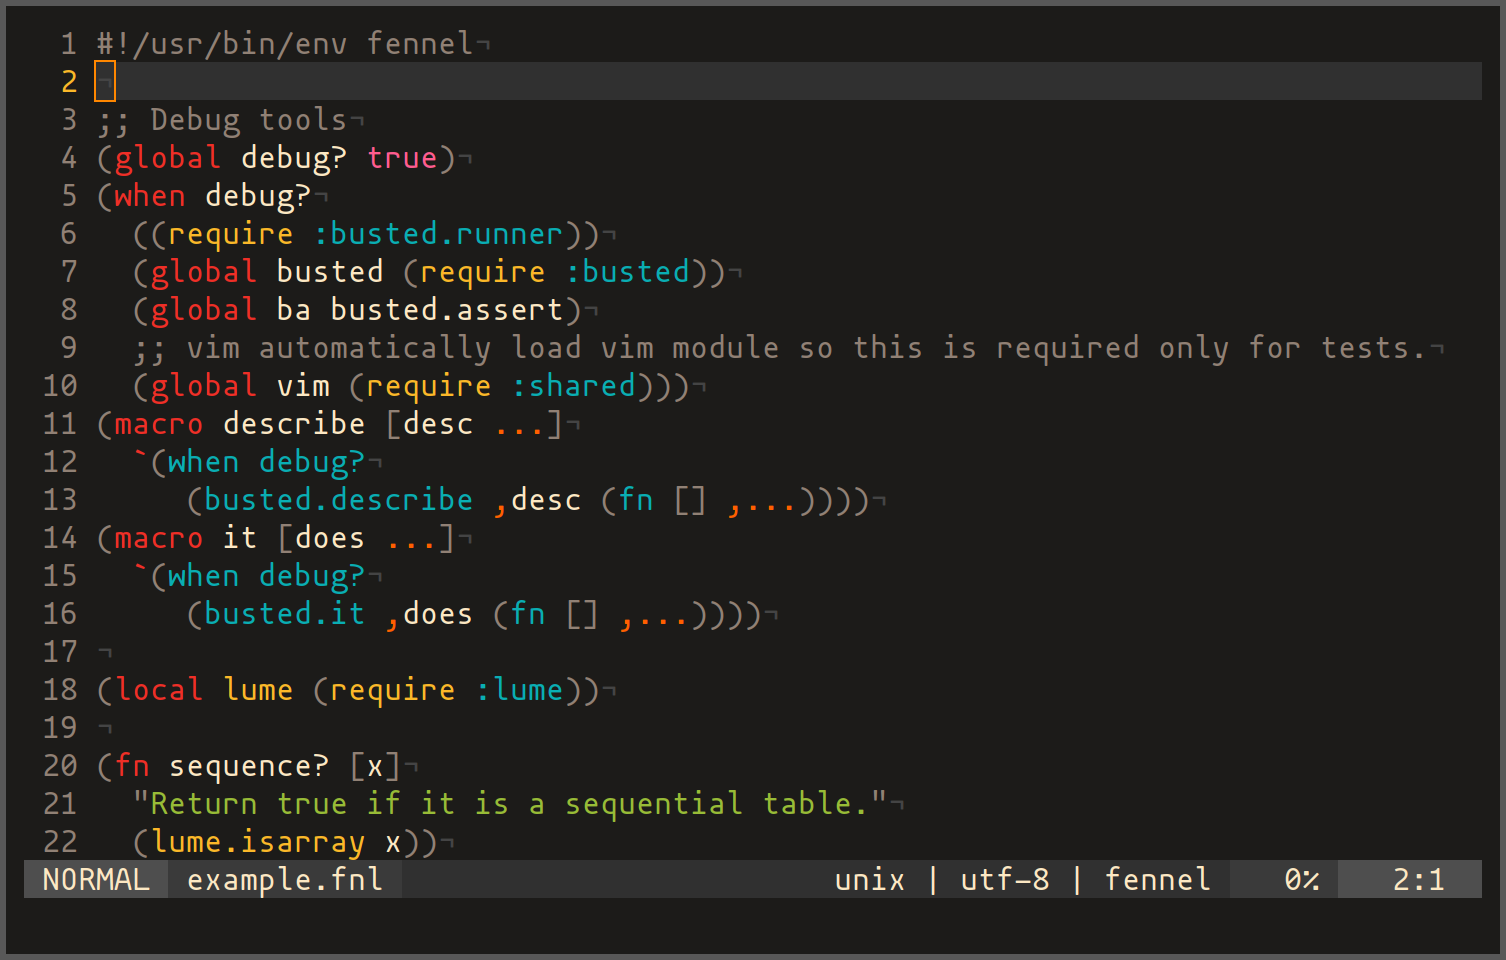
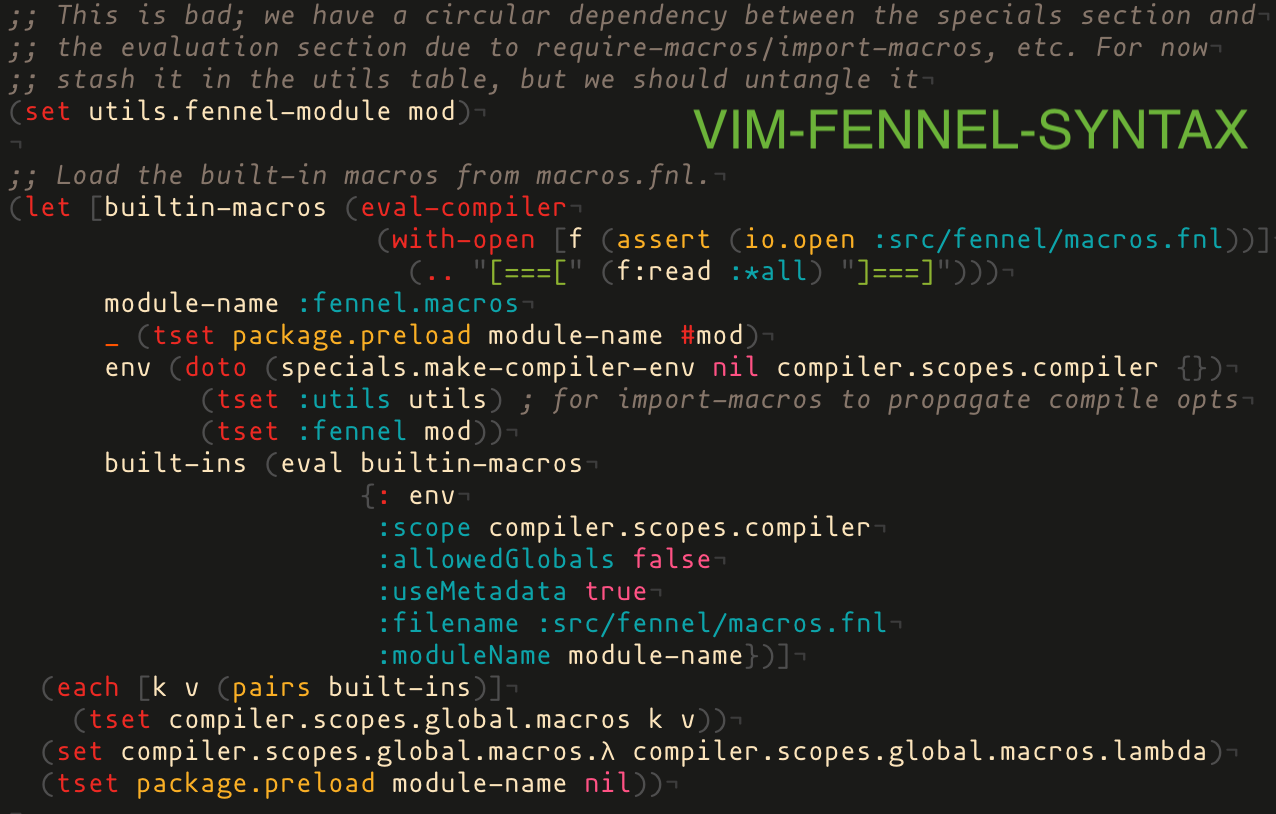
Add screenshots to show difference among fennel highlight plugins

Changed region(s): [[0.0, 0.0, 1.0, 1.0], [0.6724, 0.7371, 0.703, 0.7678], [0.6724, 0.4914, 0.703, 0.5221]]

diff --git a/README.md b/README.md
@@ -3,7 +3,11 @@
 Vim syntax highlighting for [Fennel][1].
 This repo is a personal fork from the original [fennel.vim][2].
 
-![Screenshot](./example.png)
+## Comparison among Fennel highlight plugins:
+
+![aniseed](./aniseed.png)
+![tree-sitter-fennel](./treesitter.png)
+![vim-fennel-syntax](./example.png)
 
 ## Installation
 
